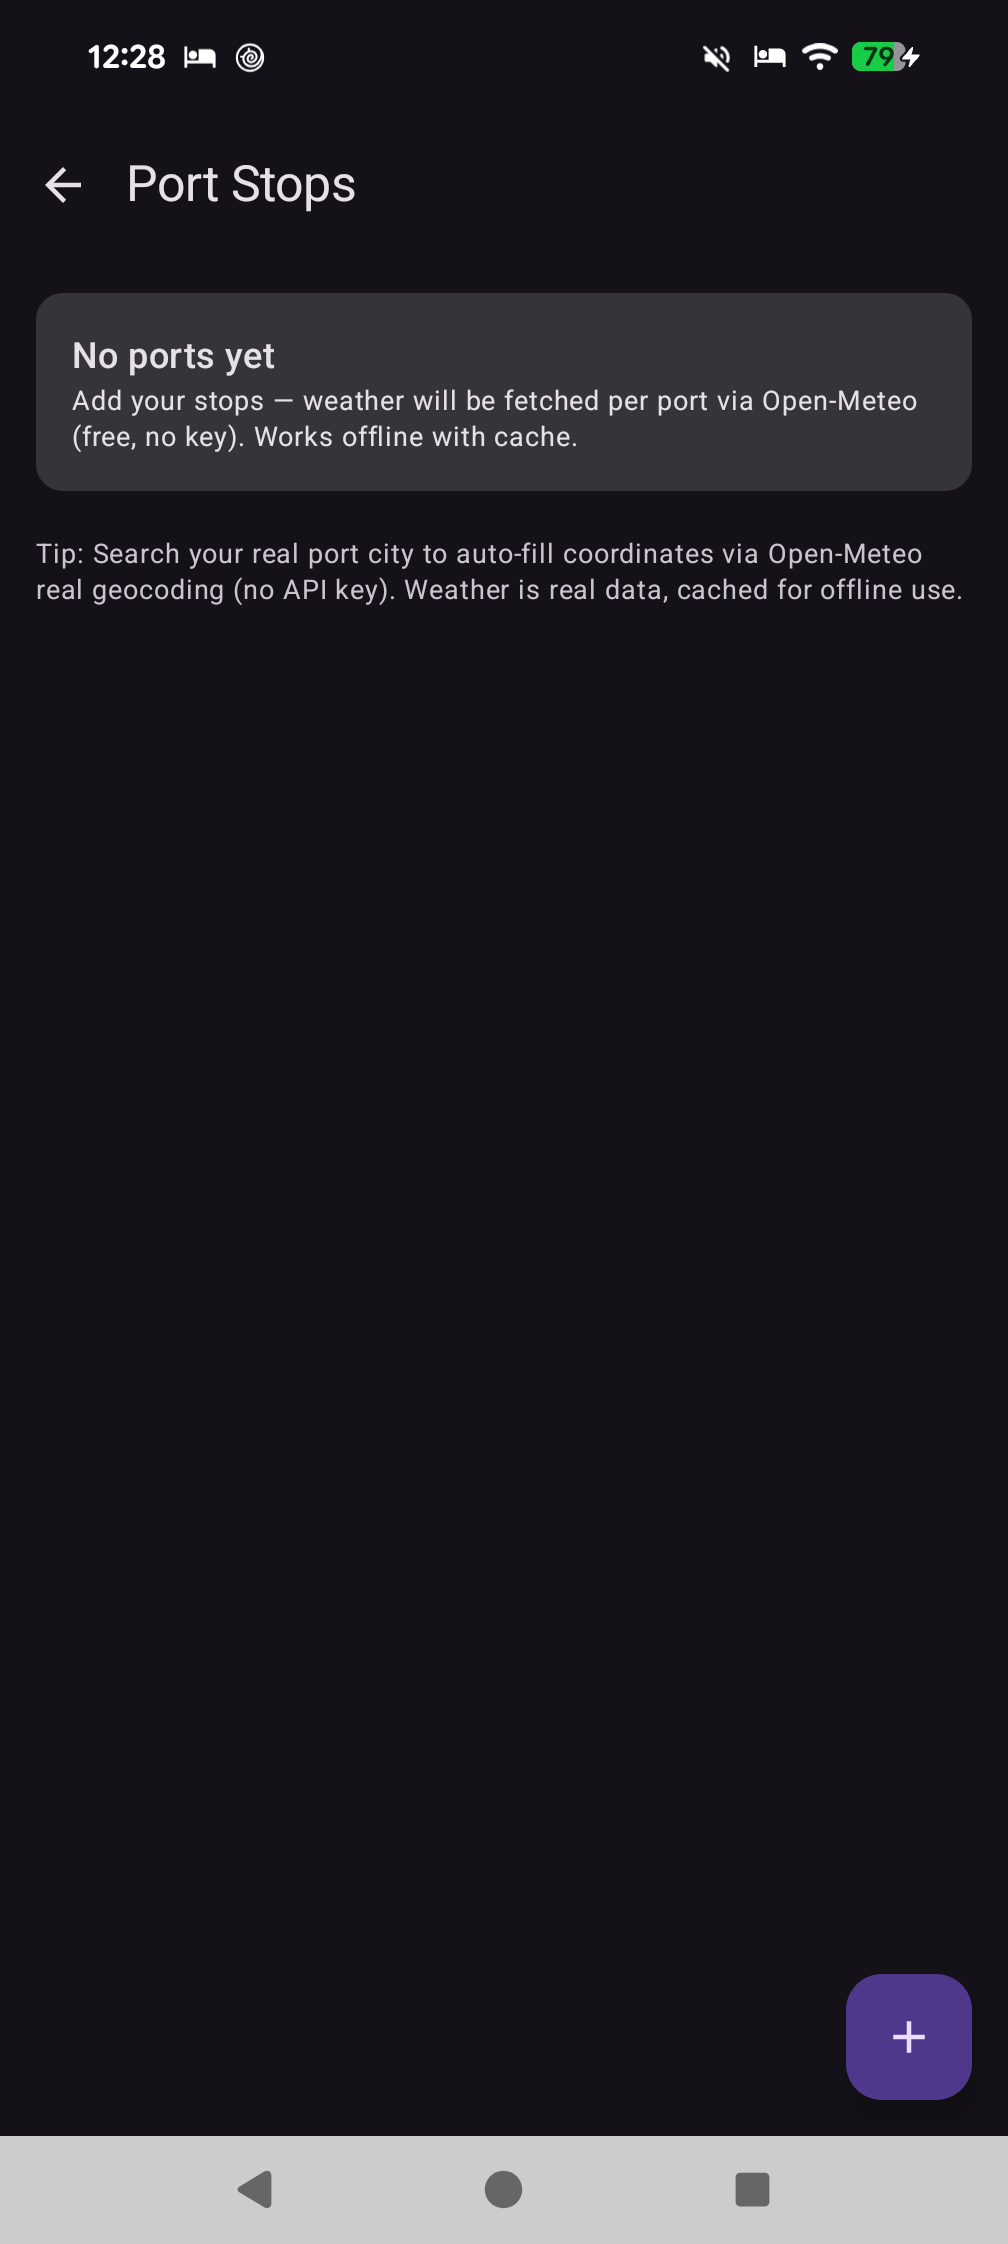
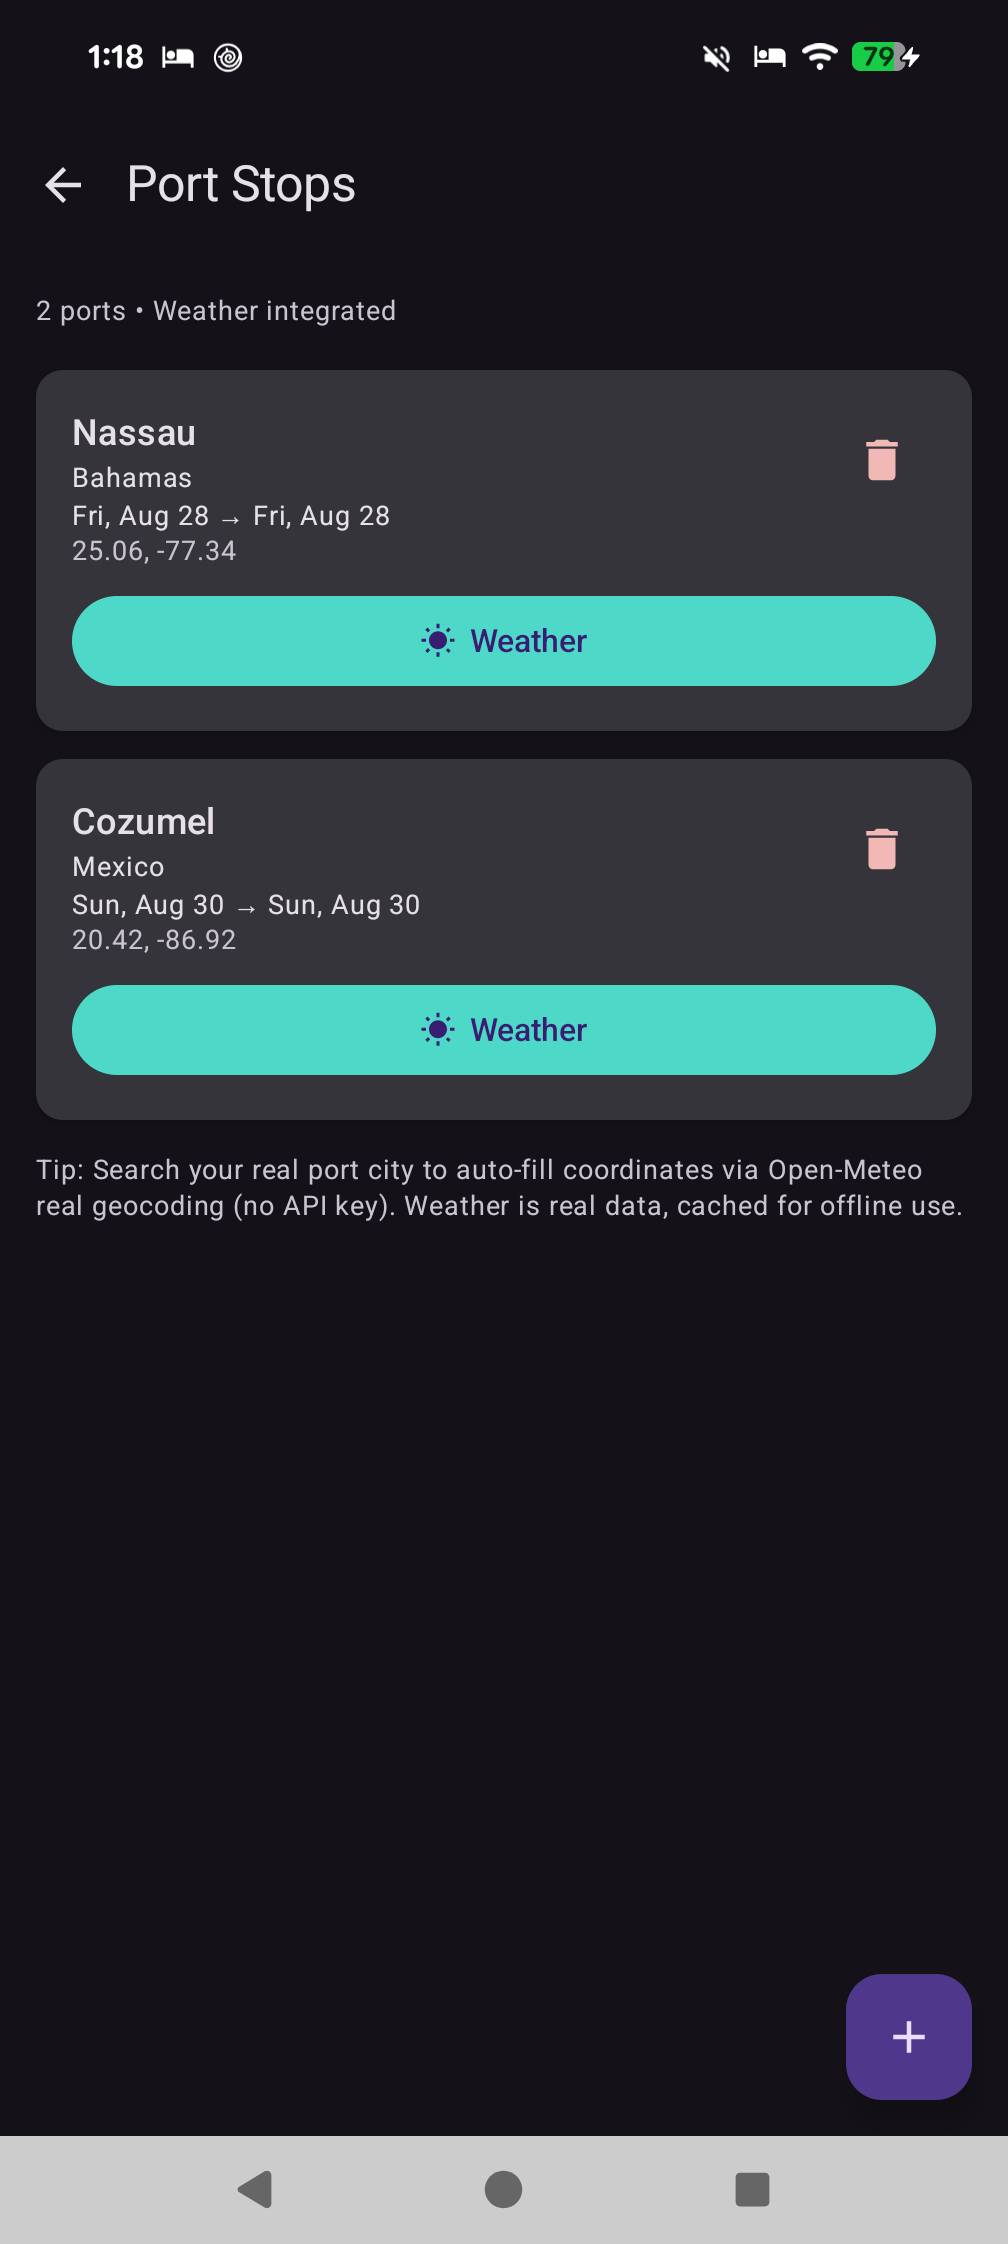
Fix weather, daily detail, party and QR screenshots (binary-safe) + DebugInjector runBlocking

diff --git a/app/src/main/java/com/charles/cruiseapp/DebugInjectorActivity.kt b/app/src/main/java/com/charles/cruiseapp/DebugInjectorActivity.kt
@@ -2,11 +2,10 @@ package com.charles.cruiseapp
 
 import android.os.Bundle
 import androidx.activity.ComponentActivity
-import androidx.lifecycle.lifecycleScope
 import com.charles.cruiseapp.data.local.Cruise
 import com.charles.cruiseapp.data.local.PortStop
 import com.charles.cruiseapp.util.startOfDay
-import kotlinx.coroutines.launch
+import kotlinx.coroutines.runBlocking
 import java.util.Calendar
 
 class DebugInjectorActivity : ComponentActivity() {
@@ -18,38 +17,39 @@ class DebugInjectorActivity : ComponentActivity() {
         val portName = intent.getStringExtra("portName") ?: "Nassau"
         val lat = intent.getDoubleExtra("lat", 25.06)
         val lon = intent.getDoubleExtra("lon", -77.34)
-        lifecycleScope.launch {
+        // Use runBlocking to ensure DB operations complete before finish (avoid lifecycleScope cancellation)
+        runBlocking {
             val db = app.database
-            // check if cruise exists, if not create
-            val existing = db.cruiseDao().getById(1)
-            var cruiseId = existing?.id
-            if (cruiseId == null) {
-                val start = Calendar.getInstance().apply { set(Calendar.HOUR_OF_DAY,0); set(Calendar.MINUTE,0); set(Calendar.SECOND,0); set(Calendar.MILLISECOND,0) }.timeInMillis
-                val end = start + 6*24*60*60*1000L
-                val id = db.cruiseDao().insert(Cruise(shipName = ship, startDate = startOfDay(start), endDate = startOfDay(end)))
-                cruiseId = id
+            // For demo screenshots, clear previous and create fresh
+            if (intent.getBooleanExtra("clearFirst", true)) {
+                try { db.cruiseDao().clearAll() } catch (_: Exception) {}
+                try { db.portStopDao().deleteForCruise(9999) } catch (_: Exception) {}
+                // clear all cruises' ports via deleting cruises will cascade? just clear cruises
+                // Also clear events
+                try {
+                    val all = db.cruiseDao().getById(1)
+                    // we will just clear via direct query would need, but for now rely on clearAll
+                } catch (_: Exception) {}
             }
-            if (addPort && cruiseId != null) {
-                val cruise = db.cruiseDao().getById(cruiseId)
-                if (cruise != null) {
-                    val arrival = cruise.startDate + 1*24*60*60*1000L
-                    db.portStopDao().insert(PortStop(cruiseId = cruise.id, name = portName, latitude = lat, longitude = lon, arrivalDate = arrival, departureDate = arrival, country = "Bahamas", orderIndex = 0))
-                    // also add a second port for demo
-                    val arrival2 = cruise.startDate + 3*24*60*60*1000L
-                    db.portStopDao().insert(PortStop(cruiseId = cruise.id, name = "Cozumel", latitude = 20.42, longitude = -86.92, arrivalDate = arrival2, departureDate = arrival2, country = "Mexico", orderIndex = 1))
-                }
+            val start = Calendar.getInstance().apply { set(Calendar.HOUR_OF_DAY,0); set(Calendar.MINUTE,0); set(Calendar.SECOND,0); set(Calendar.MILLISECOND,0) }.timeInMillis
+            val end = start + 6*24*60*60*1000L
+            val cruiseId = db.cruiseDao().insert(Cruise(shipName = ship, startDate = startOfDay(start), endDate = startOfDay(end)))
+            if (addPort) {
+                val arrival = startOfDay(start) + 1*24*60*60*1000L
+                db.portStopDao().insert(PortStop(cruiseId = cruiseId, name = portName, latitude = lat, longitude = lon, arrivalDate = arrival, departureDate = arrival, country = "Bahamas", orderIndex = 0))
+                val arrival2 = startOfDay(start) + 3*24*60*60*1000L
+                db.portStopDao().insert(PortStop(cruiseId = cruiseId, name = "Cozumel", latitude = 20.42, longitude = -86.92, arrivalDate = arrival2, departureDate = arrival2, country = "Mexico", orderIndex = 1))
             }
-            // also ensure party self exists if needed handled by PartyViewModel, but we can also add a sample message if requested
             if (intent.getBooleanExtra("addMessage", false)) {
-                val cruise = cruiseId?.let { db.cruiseDao().getById(it) }
-                if (cruise != null) {
-                    val date = cruise.startDate
-                    val cal = Calendar.getInstance().apply { timeInMillis = date; set(Calendar.HOUR_OF_DAY, 10); set(Calendar.MINUTE, 0) }
-                    val start = cal.timeInMillis
-                    db.plannedEventDao().insert(com.charles.cruiseapp.data.local.PlannedEvent(cruiseId = cruise.id, title = "Welcome Dinner", dateMillis = startOfDay(date), startTimeMillis = start, location = "Main Dining", category = "Dining", reminderMinutesBefore = 15))
-                }
+                val date = startOfDay(start)
+                val cal = Calendar.getInstance().apply { timeInMillis = date; set(Calendar.HOUR_OF_DAY, 10); set(Calendar.MINUTE, 0); set(Calendar.SECOND, 0); set(Calendar.MILLISECOND, 0) }
+                val st = cal.timeInMillis
+                db.plannedEventDao().insert(com.charles.cruiseapp.data.local.PlannedEvent(cruiseId = cruiseId, title = "Welcome Dinner", dateMillis = date, startTimeMillis = st, location = "Main Dining", category = "Dining", reminderMinutesBefore = 15))
+                // also add a second event for variety
+                val cal2 = Calendar.getInstance().apply { timeInMillis = date+1*24*60*60*1000L; set(Calendar.HOUR_OF_DAY, 14); set(Calendar.MINUTE, 30) }
+                db.plannedEventDao().insert(com.charles.cruiseapp.data.local.PlannedEvent(cruiseId = cruiseId, title = "Shore Excursion", dateMillis = startOfDay(date+1*24*60*60*1000L), startTimeMillis = cal2.timeInMillis, location = portName, category = "Excursion", reminderMinutesBefore = 30))
             }
-            finish()
         }
+        finish()
     }
 }
